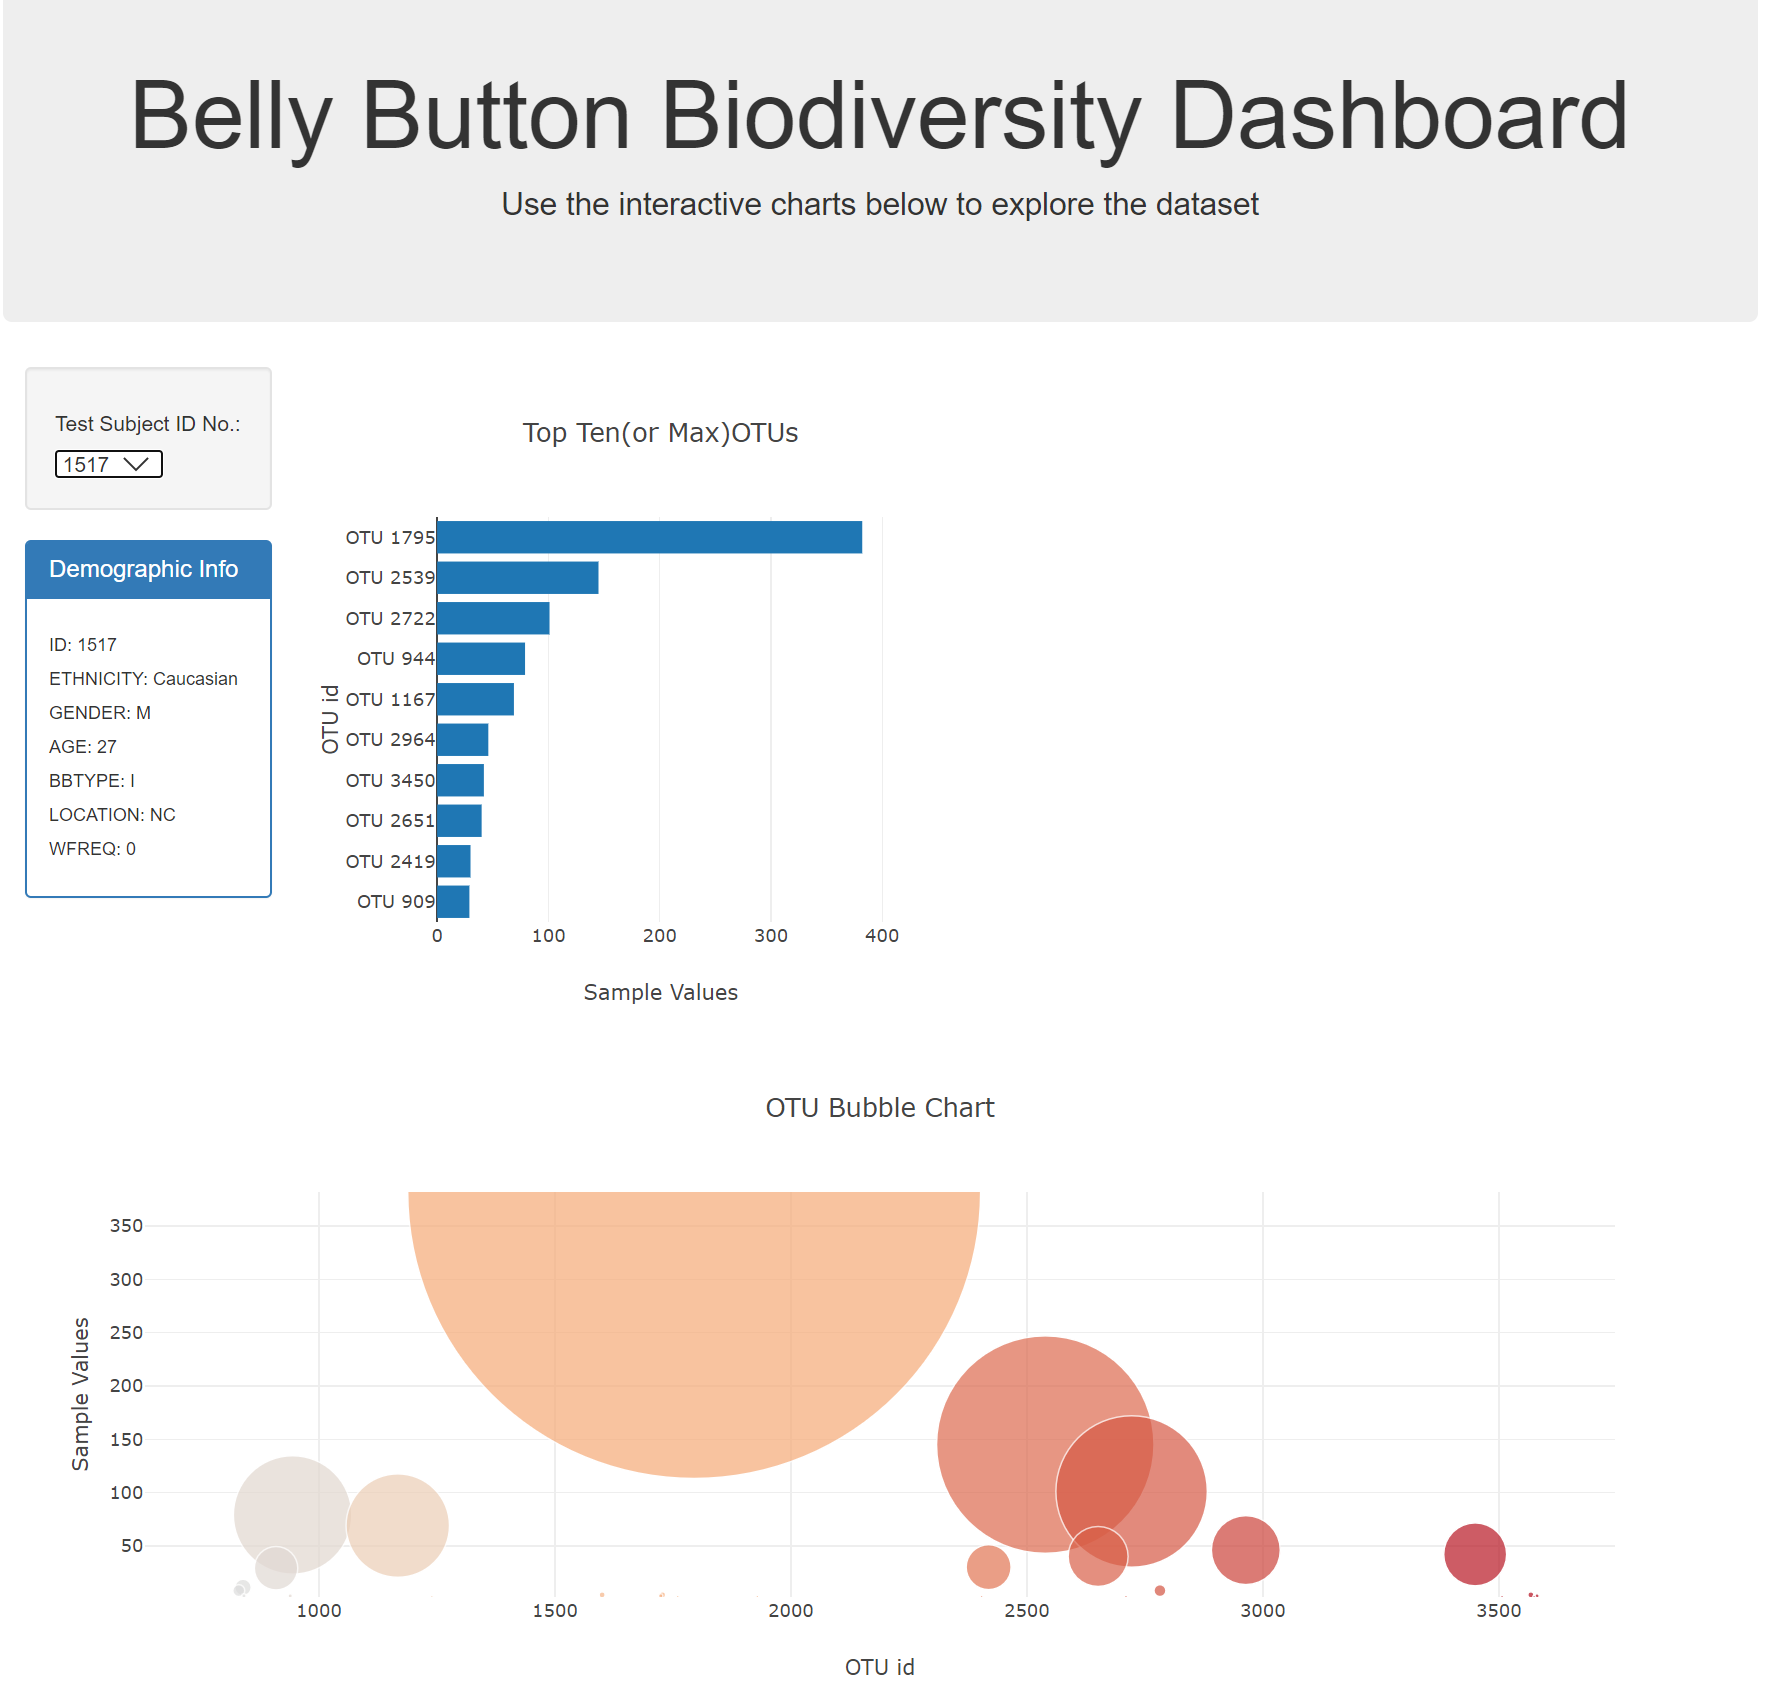
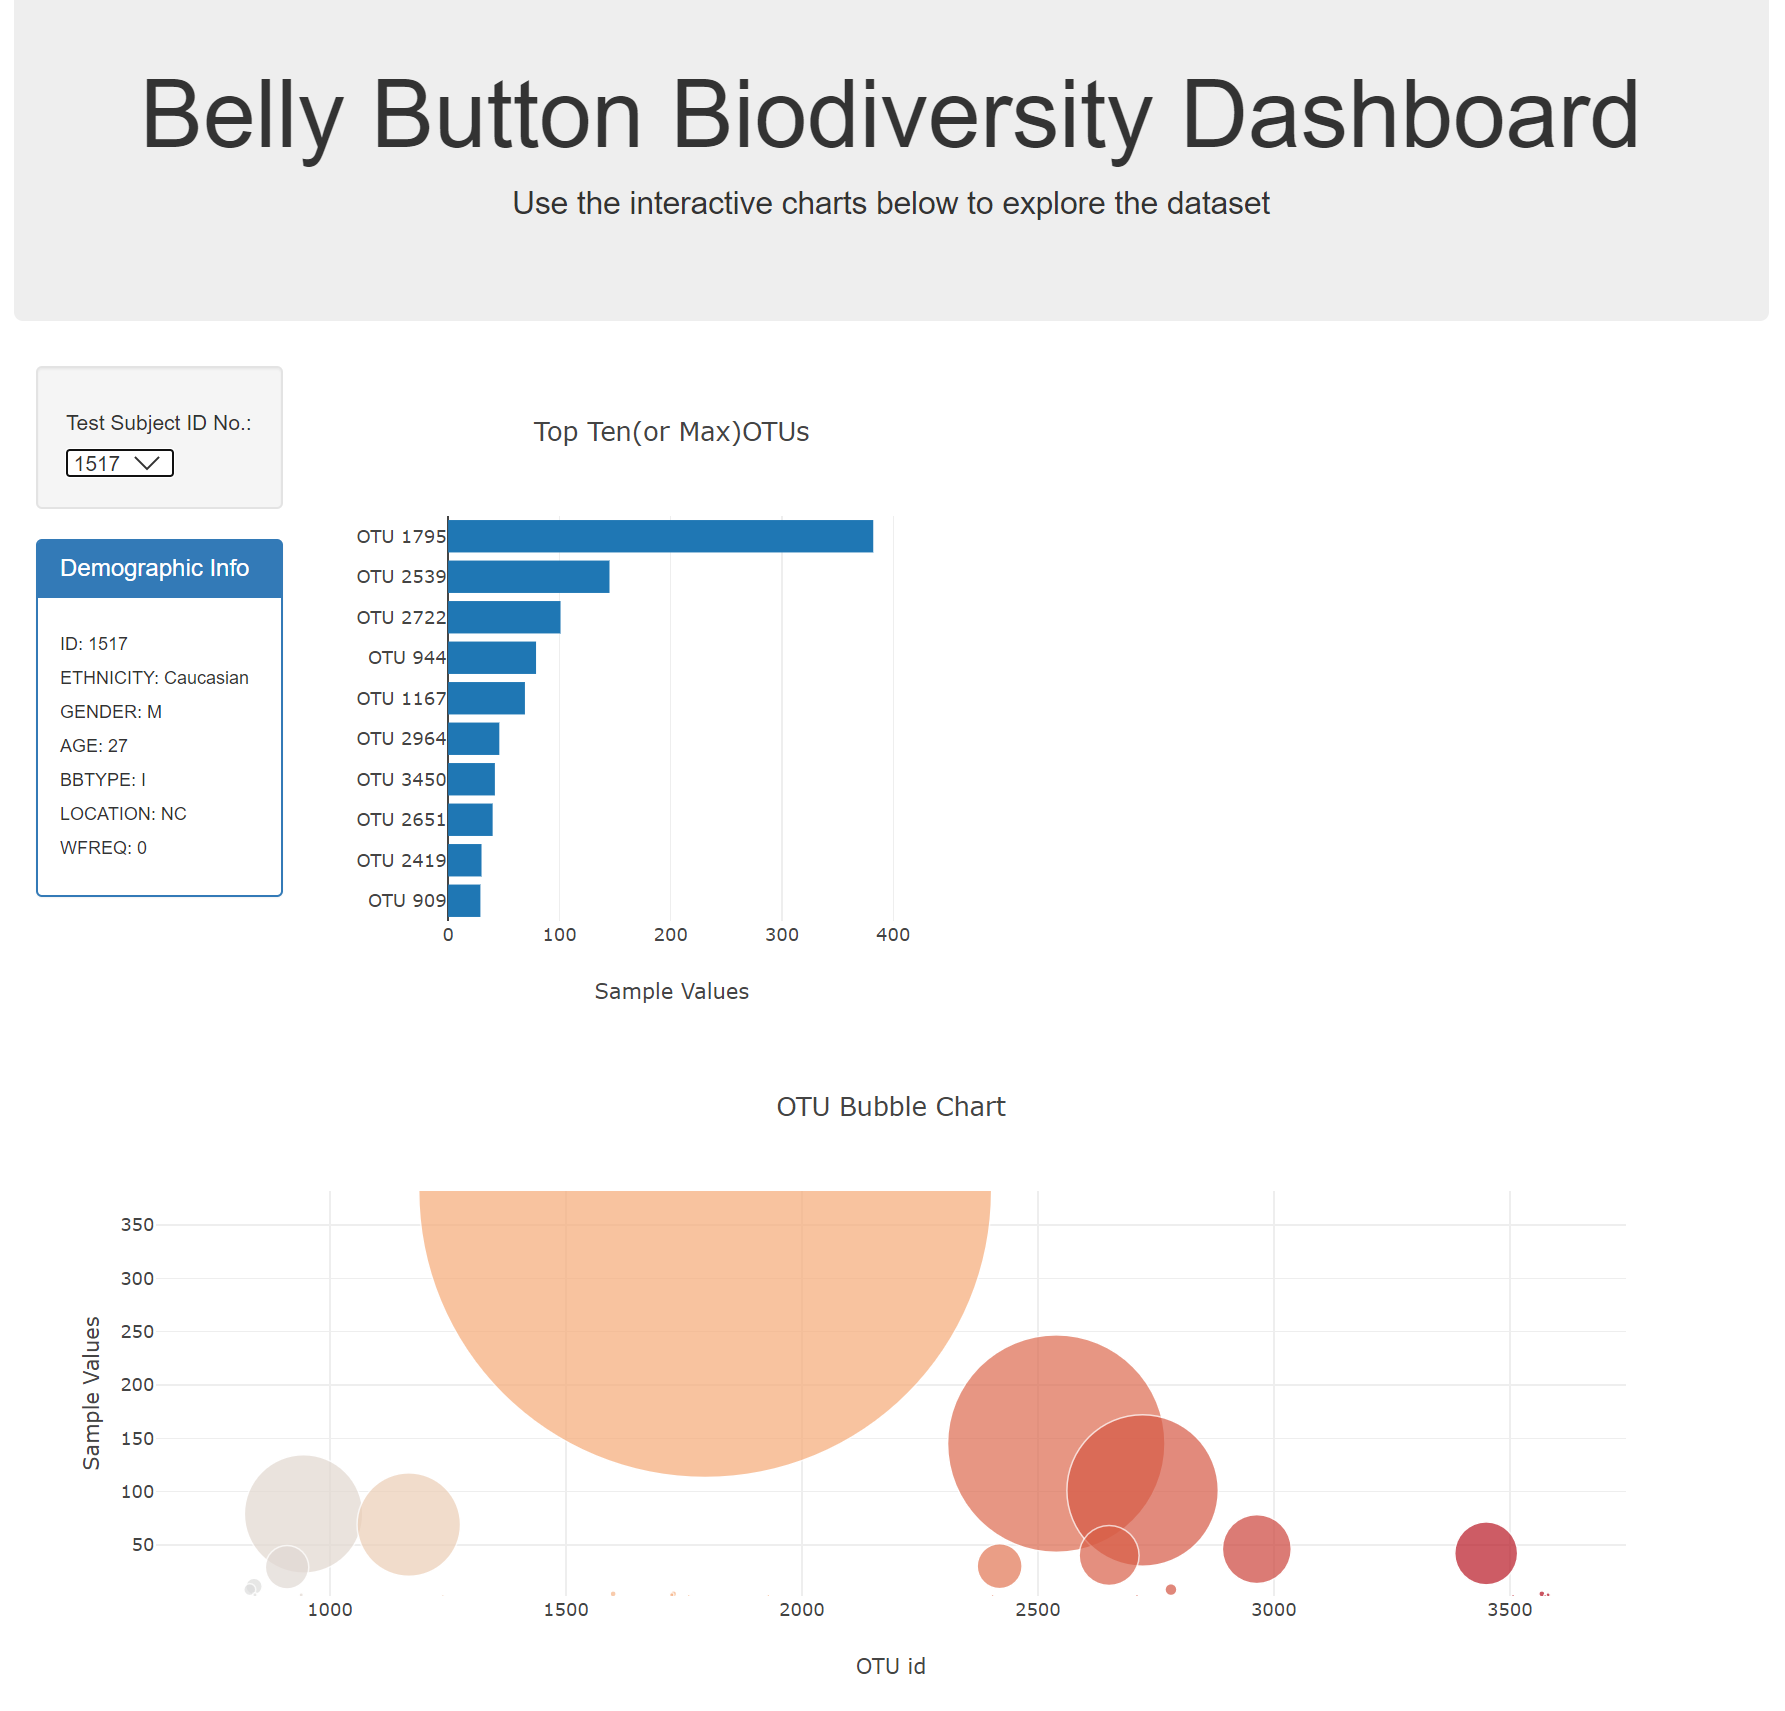
new files

diff --git a/plots.js b/plots.js
@@ -51,9 +51,12 @@ function buildMetadata(sample) {
         {
             domain: { x: [0, 1], y: [0, 1] },
             value: result.wfreq, 
-            title: { text: "Washing Frequency" },
+            title: { text: "Belly Button Washing Frequency <br> Scrubbs per Week" },
             type: "indicator",
-            mode: "gauge+number"
+            mode: "gauge+number",
+            gauge: {
+                axis: { range: [null, 9] }
+            }
         }
      ];
     
@@ -112,7 +115,7 @@ function buildCharts(newsample){
         var data = [trace];
         var layout = {
             title: "Top Ten(or Max)OTUs",
-            yaxis: { title: "OTU id" },
+            //yaxis: { title: "OTU id" },
             xaxis: { title: "Sample Values"}
         };
         //let PANEL = d3.select("#bar");

diff --git a/README.md b/README.md
@@ -35,5 +35,11 @@ was presented with plotly -indicator type model.
 ![](dashboard_zero_washfreq.PNG)
 ![](dashboard_null_otu.PNG)
 
+##D. Recommendation
+1. Have labels for the bubble chart.
+2. Make sure the bar chart etc , are based on ordered OTU data for selecting top 
+ten or max if length is less than 10.
+3. If the list is empty , clear the html area.
+
 
 
